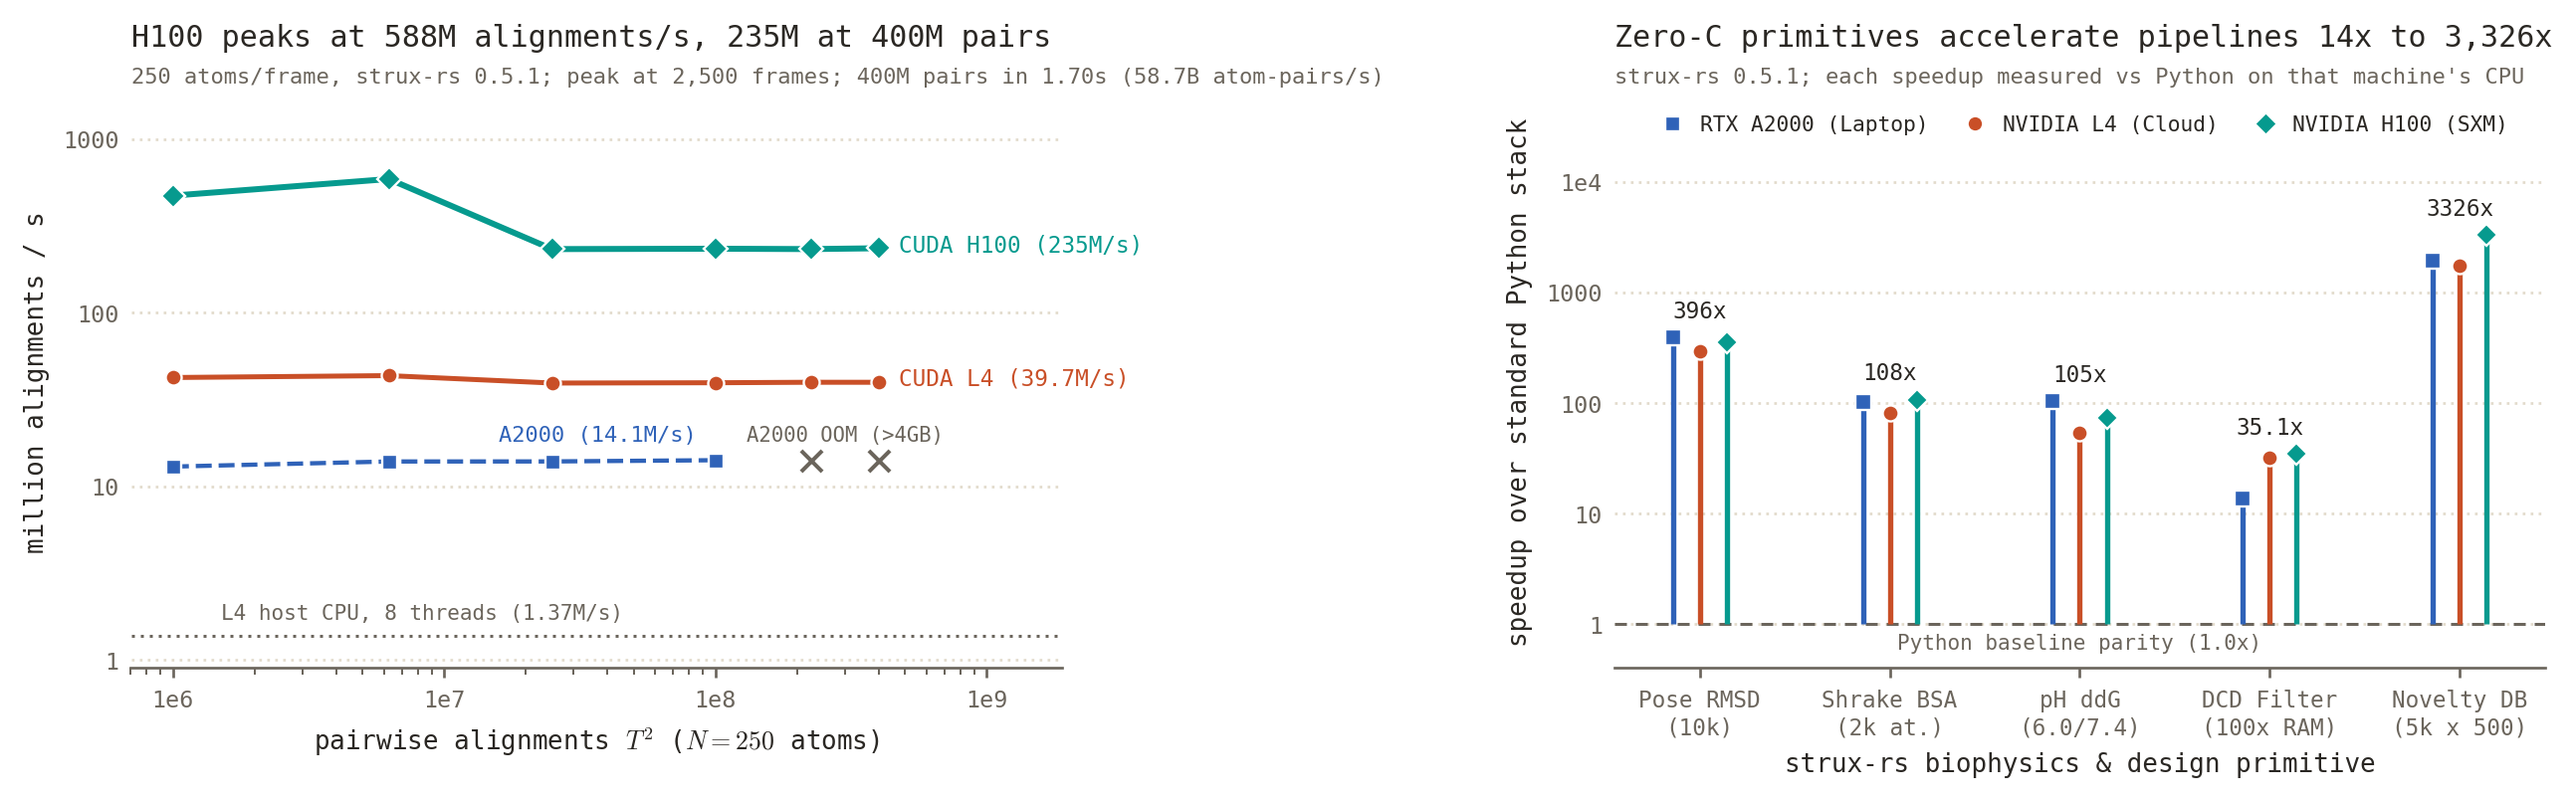
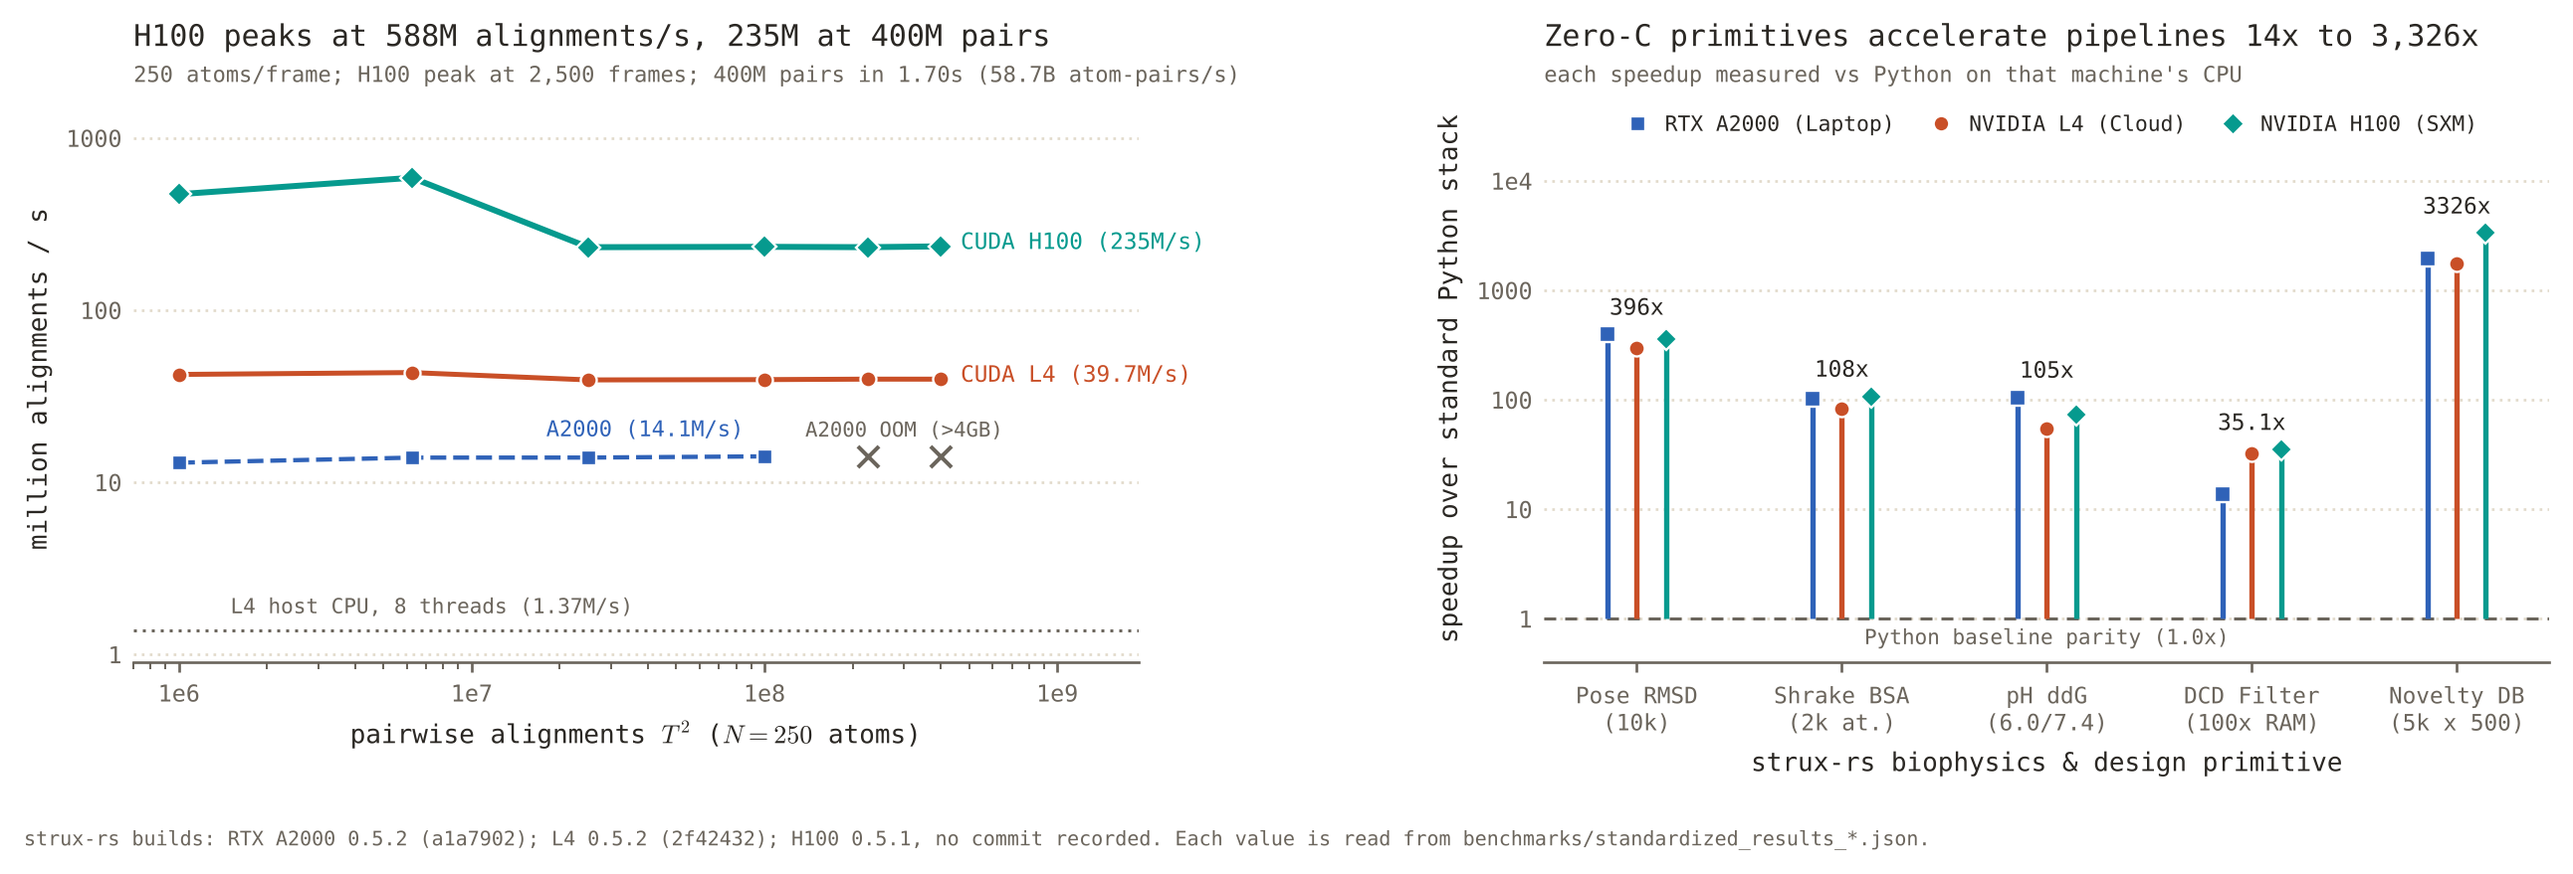
docs(benchmarks): all GPUs on 0.5.2 data, DCD unit-cell regression test
- README cross-hardware table rebuilt from the three results files; per-column note
  on which build each GPU used and why the caching gain differs by GPU
- accuracy_report / test_accuracy: add a DCD-with-periodic-box case. strux-rs 0.5.1
  misread boxed DCD files by ~95 A (unit-cell flag read from the timestep field);
  the test fails on 0.5.1 and passes on 0.5.2. accuracy.json regenerated on 0.5.2
- README: warn that boxed DCD trajectories read with 0.5.1 or earlier must be re-run
- plot: short subtitles, per-GPU build provenance as a footnote

diff --git a/benchmarks/accuracy_report.py b/benchmarks/accuracy_report.py
@@ -101,6 +101,16 @@ def run():
             out[f"{fmt}_max_abs_diff_A"] = float(np.max(np.abs(reader(path) - ref)))
             out[f"{fmt}_subset_max_abs_diff_A"] = float(np.max(np.abs(reader(path, atom_indices=ca) - ref[:, ca])))
 
+        # Periodic box: explicit-solvent MD (OpenMM, NAMD, CHARMM) writes a unit-cell record before
+        # every DCD frame. strux-rs <= 0.5.1 missed the flag and returned wrong coordinates (~95 A off).
+        boxed = md.Trajectory(t.xyz, t.topology,
+                              unitcell_lengths=np.tile([8.0, 8.0, 8.0], (t.n_frames, 1)),
+                              unitcell_angles=np.tile([90.0, 90.0, 90.0], (t.n_frames, 1)))
+        dcd_box = str(Path(d) / "t_box.dcd")
+        boxed.save_dcd(dcd_box)
+        ref = md.load(dcd_box, top=t.topology).xyz * 10.0
+        out["dcd_unitcell_max_abs_diff_A"] = float(np.max(np.abs(sx.parse_dcd(dcd_box) - ref)))
+
     out["kabsch_rmsd_max_abs_diff_A"] = max(
         abs(sx.calculate_rmsd_kabsch(f0, xyz[i]) - kabsch_rmsd(f0, xyz[i])) for i in range(1, t.n_frames))
     rg_ref = md.compute_rg(t) * 10.0
@@ -147,6 +157,7 @@ def run():
 ROWS = [
     ("XTC read, full and atom subset", "MDTraj", "max(xtc_max_abs_diff_A, xtc_subset_max_abs_diff_A)", "{:.1e} Å"),
     ("DCD read, full and atom subset", "MDTraj", "max(dcd_max_abs_diff_A, dcd_subset_max_abs_diff_A)", "{:.1e} Å"),
+    ("DCD read, periodic box (unit cell)", "MDTraj", "dcd_unitcell_max_abs_diff_A", "{:.1e} Å"),
     ("Kabsch RMSD", "NumPy SVD (float64)", "kabsch_rmsd_max_abs_diff_A", "{:.1e} Å"),
     ("Target-anchored pose RMSD", "NumPy SVD (float64)", "pose_rmsd_max_abs_diff_A", "{:.1e} Å"),
     ("Binder-only RMSD", "NumPy SVD (float64)", "binder_rmsd_max_abs_diff_A", "{:.1e} Å"),

diff --git a/benchmarks/plot_all_hardware.py b/benchmarks/plot_all_hardware.py
@@ -115,7 +115,7 @@ def main():
         """Version plus commit, since __version__ alone cannot distinguish a local build."""
         ver = data.get("strux_rs_version", "unknown")
         commit = data.get("git_commit")
-        return f"{ver} ({commit})" if commit and commit != "unknown" else ver
+        return f"{ver} ({commit})" if commit and commit != "unknown" else f"{ver}, no commit recorded"
 
     h100_b = {b["benchmark"]: b for b in h100_data.get("benchmarks", [])}
     l4_b = {b["benchmark"]: b for b in l4_data.get("benchmarks", [])}
@@ -203,7 +203,7 @@ def main():
     titles(
         ax1,
         f"H100 peaks at {peak_h100:.0f}M alignments/s, {rate_h100[-1]:.0f}M at 400M pairs",
-        f"250 atoms/frame, strux-rs {build_label(h100_data)}; peak at {peak_frames:,} frames; "
+        f"250 atoms/frame; H100 peak at {peak_frames:,} frames; "
         f"400M pairs in {time_max_h100:.2f}s ({atom_pairs_rate_h100:.1f}B atom-pairs/s)",
     )
 
@@ -286,10 +286,14 @@ def main():
     titles(
         ax2,
         f"Zero-C primitives accelerate pipelines {min_sp:.0f}x to {max_sp:,.0f}x",
-        f"strux-rs {build_label(h100_data)}; each speedup measured vs Python on that machine's CPU",
+        "each speedup measured vs Python on that machine's CPU",
     )
 
     fig.tight_layout(w_pad=3.8)
+    fig.text(0.01, -0.03,
+             f"strux-rs builds: RTX A2000 {build_label(a2000_data)}; L4 {build_label(l4_data)}; "
+             f"H100 {build_label(h100_data)}. Each value is read from benchmarks/standardized_results_*.json.",
+             fontsize=6.0, color=INK2, ha="left", va="top")
 
     out_all = bdir / "hardware_scaling_comparison.png"
     fig.savefig(out_all, bbox_inches="tight", dpi=240)

diff --git a/tests/test_accuracy.py b/tests/test_accuracy.py
@@ -22,6 +22,7 @@ def res():
 @pytest.mark.parametrize("key", [
     "xtc_max_abs_diff_A", "xtc_subset_max_abs_diff_A",  # XTC is stored at 1e-3 nm precision
     "dcd_max_abs_diff_A", "dcd_subset_max_abs_diff_A",
+    "dcd_unitcell_max_abs_diff_A",  # regression: <= 0.5.1 misread boxed DCD files by ~95 A
 ])
 def test_trajectory_readers_match_mdtraj(res, key):
     assert res[key] < 1e-4

diff --git a/README.md b/README.md
@@ -28,7 +28,7 @@ Check with `strux_rs.cuda_is_available()`. Without a usable GPU it returns `Fals
 ## Highlights
 
 * **High-Throughput Ingestion & In-Flight Filtering**: Memory-mapped `.xtc`, `.dcd`, `.cif` (AF3/Boltz/RCSB), and `.pdb` readers with zero-copy atom-index and $C_\alpha$ subsetting during decompression (**73.6×** faster than MDAnalysis, **1.4×** faster than MDTraj).
-* **De Novo Protein & Therapeutic Design Biophysics**: Target-anchored Pose RMSD & monomer scRMSD (**10,000 complexes in 4.28 ms**, **374×** vs a NumPy SVD loop, 16-thread i9 laptop), interface geometry (buried polars heuristic, polar contacts, salt bridges), 96-point Shrake-Rupley BSA (**1.39 ms** for 2,048 atoms), screened Debye-Hückel $\Delta\Delta G_{\text{pH}}$, ANM normal modes, and developability screening (100k sequences in 69 ms).
+* **De Novo Protein & Therapeutic Design Biophysics**: Target-anchored Pose RMSD & monomer scRMSD (**10,000 complexes in 4.19 ms**, **396×** vs a NumPy SVD loop, 16-thread i9 laptop), interface geometry (buried polars heuristic, polar contacts, salt bridges), 96-point Shrake-Rupley BSA (**1.39 ms** for 2,048 atoms), screened Debye-Hückel $\Delta\Delta G_{\text{pH}}$, ANM normal modes, and developability screening (100k sequences in 69 ms).
 * **AI-Accelerated Simulation (AMS)**: lDDT (**201×** faster than NumPy), greedy sequence identity clustering (AF-Cluster style) (**33.8×** faster), Cartesian PCA (**5.1×** faster), and Markov state transition populations at **103.9M frames/s**.
 * **CUDA GPU Acceleration**: Pairwise RMSD at **2.05M alignments/s** (**4,348×** over Biopython, **25.3×** over Google JAX), Daura conformational clustering, and dense contact frequency matrices (**19.5×** speedup).
 
@@ -73,6 +73,7 @@ The table is generated by `benchmarks/accuracy_report.py`, which also writes `be
 | :--- | :--- | :--- |
 | XTC read, full and atom subset | MDTraj | 1.5e-05 Å |
 | DCD read, full and atom subset | MDTraj | 7.6e-06 Å |
+| DCD read, periodic box (unit cell) | MDTraj | 7.6e-06 Å |
 | Kabsch RMSD | NumPy SVD (float64) | 9.0e-06 Å |
 | Target-anchored pose RMSD | NumPy SVD (float64) | 3.2e-05 Å |
 | Binder-only RMSD | NumPy SVD (float64) | 8.8e-07 Å |
@@ -85,6 +86,7 @@ The table is generated by `benchmarks/accuracy_report.py`, which also writes `be
 
 Notes:
 
+* **DCD files with a periodic box (fixed in 0.5.2).** strux-rs 0.5.1 and earlier did not detect the unit-cell flag in DCD headers, so for trajectories written with a box (explicit-solvent output from OpenMM, NAMD or CHARMM) `parse_dcd` returned wrong coordinates without raising an error: up to ~95 Å off in the test above. Files without a box were read correctly. If you analysed boxed DCD trajectories with an earlier version, upgrade and re-run. The test suite now covers this case.
 * **BSA radii.** Without `target_radii` / `binder_radii`, every atom gets a 1.70 Å radius, which overestimates BSA (row above). Pass element van der Waals radii for FreeSASA-comparable values.
 * **Interface terms are distance heuristics.** `analyze_interface_physics` counts polar contacts (cross-chain N/O within 3.5 Å, no angle or donor/acceptor check), salt bridges, and buried polar atoms without a nearby N/O partner. This is not Rosetta `BuriedUnsatHbonds`, and it has not been compared against Rosetta.
 * **lDDT (changed in 0.5.0).** The global score now pools all scored distance pairs, as in AlphaFold `lddt(per_residue=False)` and OpenStructure. Up to 0.4.x it averaged per-residue scores, which differed by up to 0.03 on this trajectory. Per-residue scores are unchanged. No stereochemistry checks are applied.
@@ -152,18 +154,18 @@ Head-to-head comparison across standard computational biology packages on identi
 #### B. Cross-Hardware Scaling: H100 (80 GB) vs. Cloud L4 (24 GB) vs. Laptop RTX A2000 (4 GB)
 | Workload & System Scale | Laptop RTX A2000 (4 GB, 35W) | Cloud NVIDIA L4 (24 GB, 72W) | Data Center H100 (80 GB, 700W) | Max Throughput / Speedup |
 | :--- | :---: | :---: | :---: | :---: |
-| **1,000 × 1,000 frames** (1.0M pairs) | 196.4 ms | 167.2 ms | **2.1 ms** | 117.9 B atom-pairs/s (471M align/s) |
-| **5,000 × 5,000 frames** (25.0M pairs) | 1,908.6 ms | 775.1 ms | **107.7 ms** | 58.0 B atom-pairs/s |
-| **10,000 × 10,000 frames** (100.0M pairs) | 7,213.3 ms (7.21s) | 2,658.7 ms (2.66s) | **428.7 ms (0.43s)** | 58.3 B atom-pairs/s (233M align/s) |
-| **20,000 × 20,000 frames** (400.0M pairs) | *OOM (>4 GB VRAM)* | 10,188.1 ms (10.19s) | **1,704.3 ms (1.70s)** | **58.7 B atom-pairs/s (235M align/s)** |
-| **5,000-Frame AMS Feedback Loop** | 10,618.3 ms | 7,938.1 ms | **4,698.5 ms** | Complete ensemble analysis in 4.70s |
-| **Target-Anchored Pose + scRMSD** (10,000 designs) | 4.28 ms | 8.24 ms | **2.95 ms** | **357.9× vs NumPy SVD** (H100 host CPU) |
-| **Shrake-Rupley BSA** (2,048 atoms, 96 points) | 1.39 ms | 9.25 ms | **1.14 ms** | **107.6× vs pure Python** |
-| **Sliding 15-mer Novelty DB** (5k queries × 500 refs) | 9,362.3 ms | 7,461.3 ms | **5,809.1 ms** | **3,325.9× vs Python** (5.8s vs ~5.4 hours) |
+| **1,000 × 1,000 frames** (1.0M pairs) | 76.9 ms | 23.6 ms | **2.12 ms** | 117.9 B atom-pairs/s (471M align/s) |
+| **5,000 × 5,000 frames** (25.0M pairs) | 1,796.4 ms (1.80s) | 635.7 ms | **107.7 ms** | 58.0 B atom-pairs/s (232M align/s) |
+| **10,000 × 10,000 frames** (100.0M pairs) | 7,070.0 ms (7.07s) | 2,532.5 ms (2.53s) | **428.7 ms** | 58.3 B atom-pairs/s (233M align/s) |
+| **20,000 × 20,000 frames** (400.0M pairs) | *OOM (>4 GB VRAM)* | 10,068.9 ms (10.07s) | **1,704.3 ms (1.70s)** | 58.7 B atom-pairs/s (235M align/s) |
+| **5,000-Frame AMS Feedback Loop** | 10,336.3 ms | 8,563.7 ms | **4,698.5 ms** | Complete ensemble analysis in 4.70s |
+| **Target-Anchored Pose + scRMSD** (10,000 designs) | 4.19 ms | 8.31 ms | **2.95 ms** | **357.9× vs NumPy SVD** (H100 host CPU) |
+| **Shrake-Rupley BSA** (2,048 atoms, 96 points) | 1.39 ms | 9.90 ms | **1.14 ms** | **107.6× vs pure Python** |
+| **Sliding 15-mer Novelty DB** (5k queries × 500 refs) | 9,369.8 ms | 7,699.1 ms | **5,809.1 ms** | **3,325.9× vs Python** (5.8s vs ~5.4 hours) |
 
-The H100 column was measured after the CUDA engine became a process-wide singleton, which removes the ~150 ms driver context and PTX JIT cost that every `cuda_*` call previously paid. The L4 and RTX A2000 columns predate that change (released 0.5.1), so the small-matrix gap between the columns reflects that caching, not the hardware. Large-matrix rows are dominated by kernel and transfer time and are comparable. Engine caching ships in 0.5.2; the L4 and RTX A2000 columns will be re-measured on that release.
+Builds per column: **RTX A2000** and **L4** on released 0.5.2 (`git_commit` recorded in each results file), **H100** on a source build of the same CUDA changes before the release. From 0.5.2 the CUDA engine is a process-wide singleton, which removes the roughly 120-150 ms driver context and PTX JIT cost every `cuda_*` call used to pay. At 1,000 x 1,000 that cut the H100 from 150.3 ms to 2.1 ms, the L4 from 167.2 ms to 23.6 ms and the A2000 from 196.4 ms to 76.9 ms. The gain differs because the fixed cost was a different share of each call: from about 5,000 frames up the GPUs hold steady per-pair costs (A2000 ~71 ms, L4 ~25 ms, H100 ~4.3 ms per million pairs), so they are compute-bound rather than dispatch-bound.
 
-![Hardware Scaling Comparison](benchmarks/hardware_scaling_comparison.png?v=0.5.2a)
+![Hardware Scaling Comparison](benchmarks/hardware_scaling_comparison.png?v=0.5.2c)
 
 #### C. Prolonged 5-Minute Full-System Hardware Burn (`309.3s` Concurrent 16T CPU + CUDA GPU)
 Under 5+ continuous minutes of simultaneous **16-thread Rayon CPU torture (`97.5%` mean utilization)** and **100% CUDA GPU saturation**:
